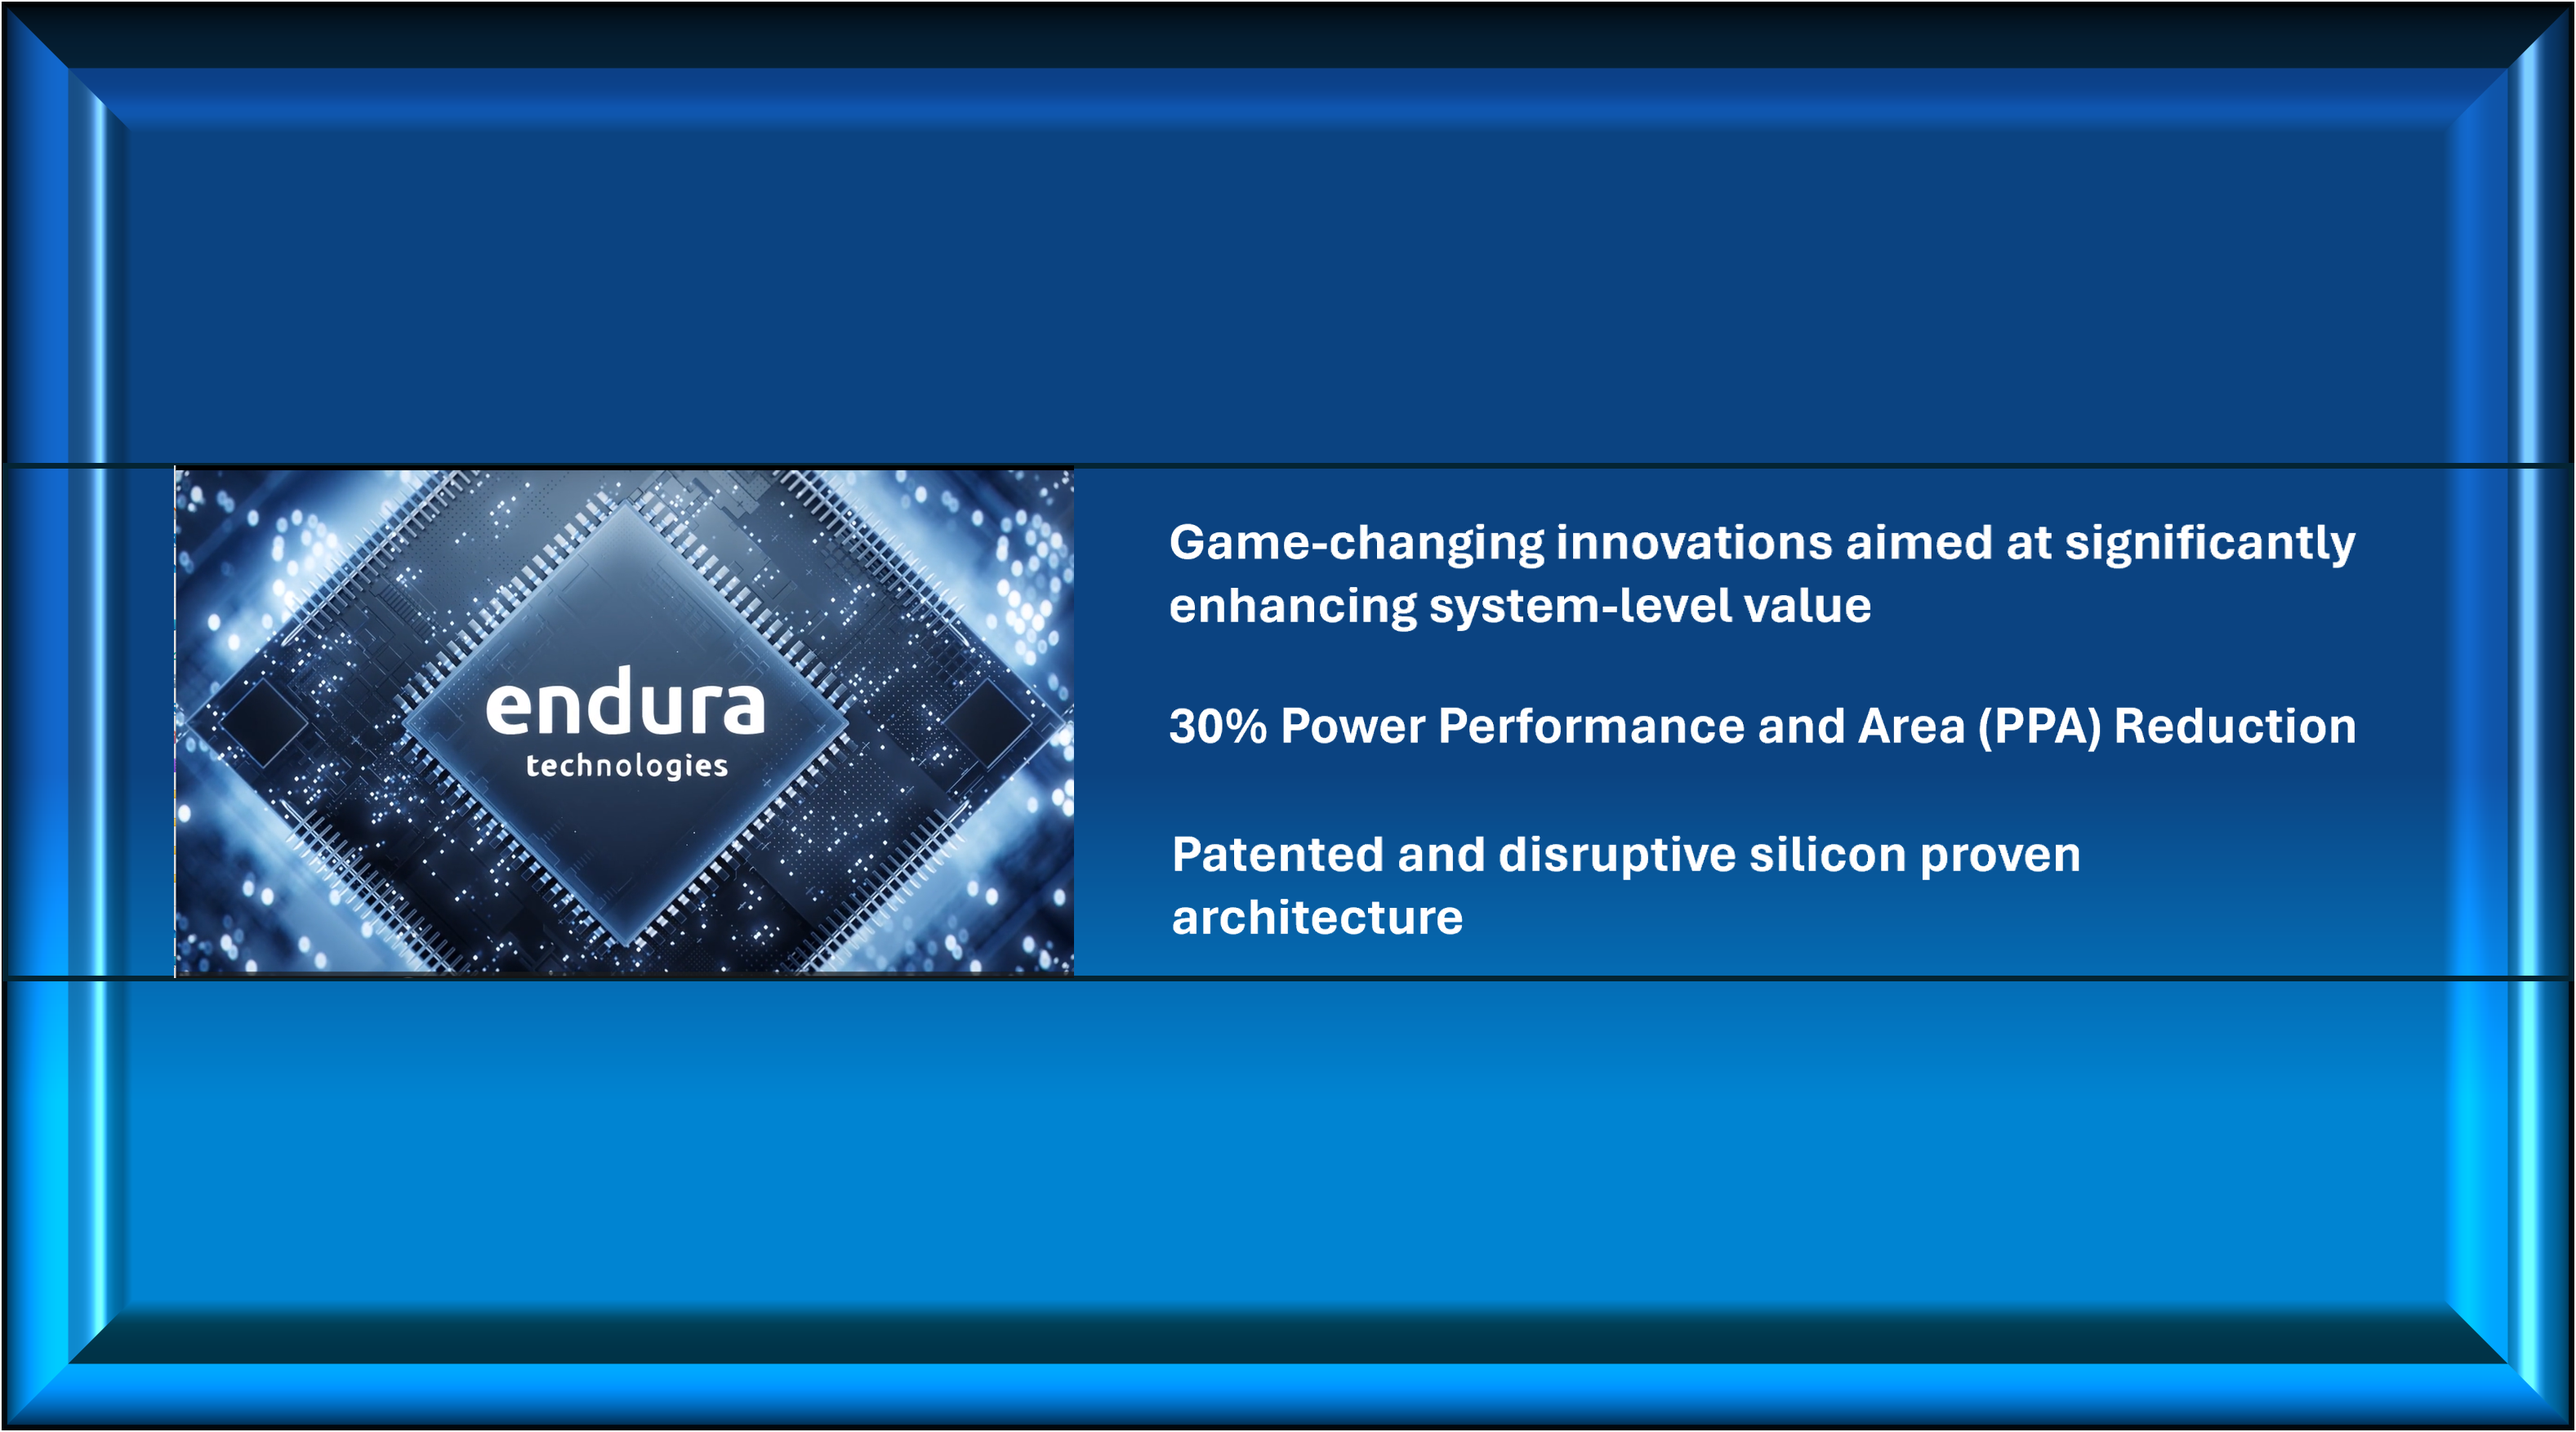
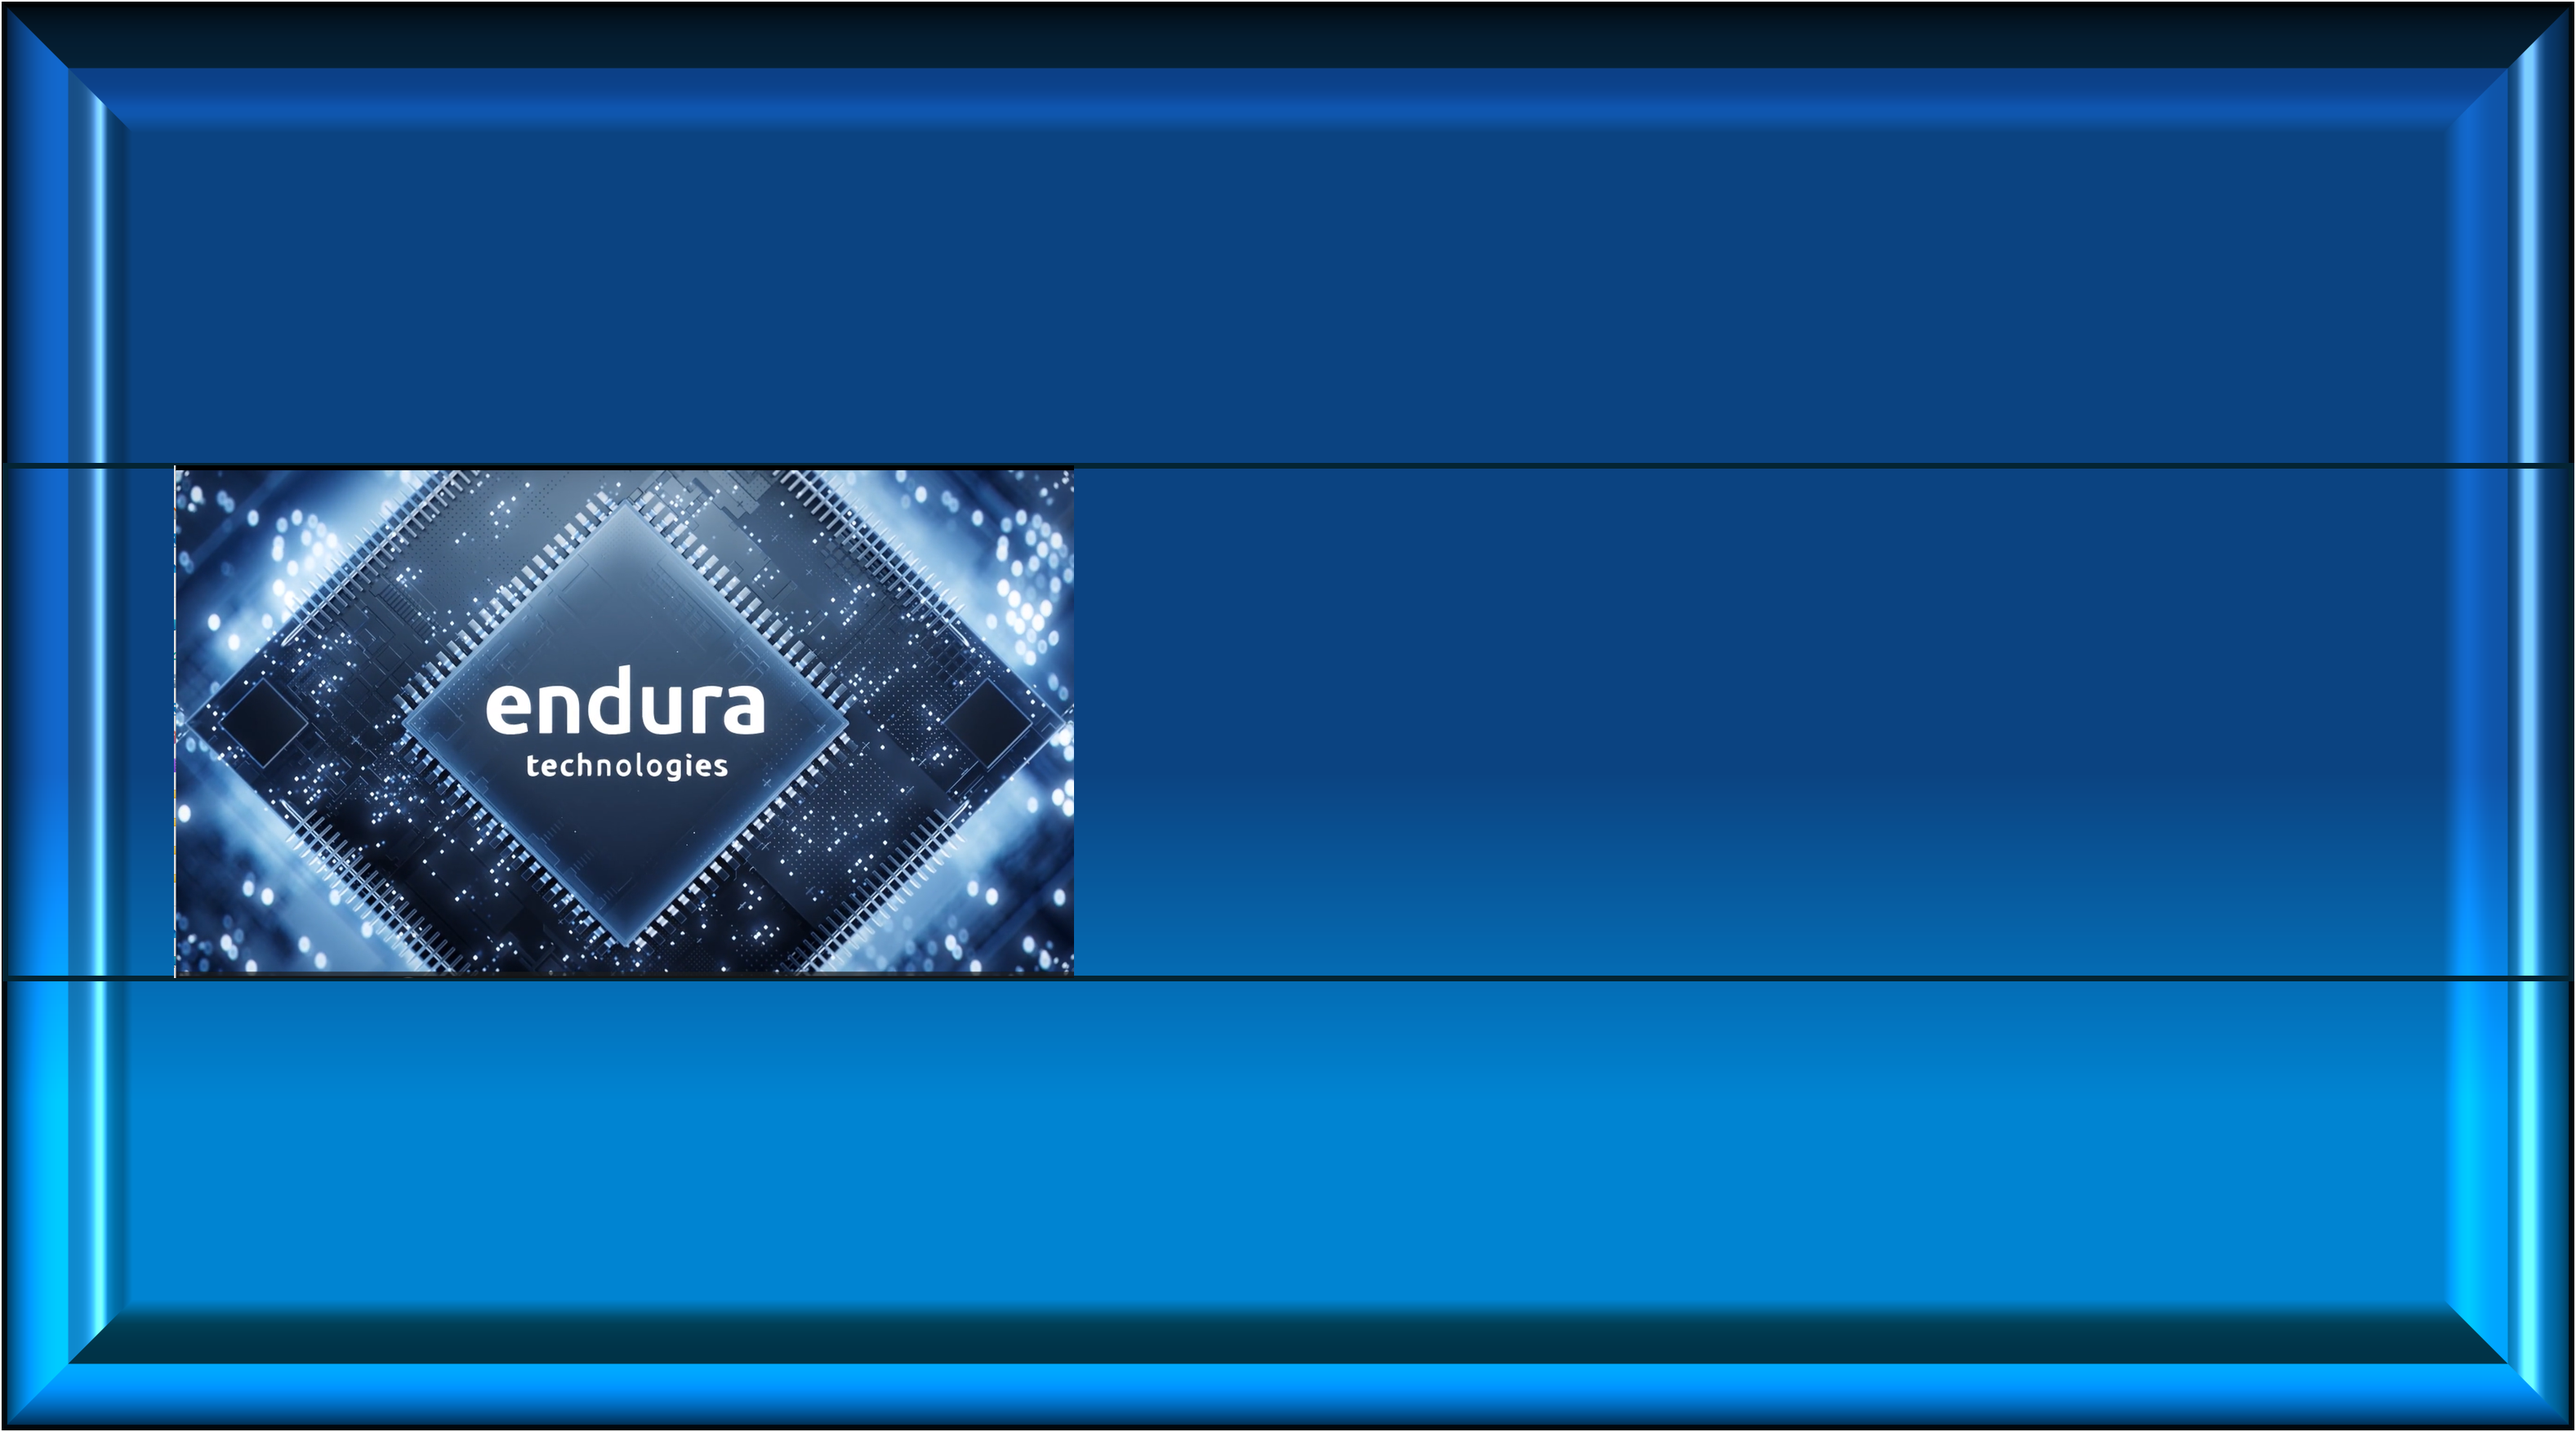
Modified front-page

Changed region(s): [[0.435, 0.3694, 0.9321, 0.4618], [0.435, 0.5849, 0.8079, 0.6773], [0.435, 0.4926, 0.9321, 0.5234]]

diff --git a/index.html b/index.html
@@ -2,6 +2,7 @@
 <html>
 <head>
     <!-- The content of header.html will be included here -->
+    <meta charset="UTF-8">
     <div id="header"></div>
     <script>
         fetch('header.html')
@@ -25,35 +26,53 @@
 <div class="slider-container">
     <div class="slider">
         <div class="slide" style="background-image: url('images/endura-diff1.png');">
-        </div>
-        <div class="slide" style="background-image: url('images/endura-diff2.png');">
+            <div class="slide-content">
+                <p>Game-changing innovations aimed at significantly enhancing system-level value</p>
+                <p>30% Power Performance and Area (PPA) Reduction</p>
+                <p>Patented and disruptive silicon proven architecture</p>
+            </div>
         </div>
         <div class="slide" style="background-image: url('images/endura-diff3.png');">
+            <div class="slide-content" style="margin-right: 30%; width: 60%;">
+                <p>Innovative Power Management and Delivery</p>
+                <ul>
+                    <li>Integrated Passives</li>
+                    <li>Smart Programmable, Flexible</li>
+                    <li>Scalable from SoC's to 2000A+ systems</li>
+                </ul>
+            </div>
+        </div>
+        <div class="slide" style="background-image: url('images/endura-diff2.png');">
+            <div class="slide-content" style="margin-right: 35%; width: 60%;">
+                <p><span class="highlight">eVR100</span> - The Evolution of Power</p>
+                <ul class="two-column-list">
+                    <li>Efficiency and Stability</li>
+                    <li>Digital Control</li>
+                    <li>High Speed Switching (150MHz)</li>
+                    <li>3D Integrated Passives</li>
+                    <li>High Current Densities</li>
+                    <li>System Scalable to >2000A</li>
+                </ul>
+                <p><span class="highlight">Coming 2024</span></p>
+            </div>
         </div>
     </div>
-</div>
-
-
-<div class="homecolumns1">
-    <div class="featvid1">
-        <div class="sixteen1">
-            <video class="responsive-vid1" preload="metadata" src="/images/endura-intro2.mp4" width="1280" height="720" autoPlay muted loop playsInline type="video/mp4"></video>
-        </div>
-    </div>
-    <div class="feattext1">
-        <h2 class="sub-title1"></h2>
-        <h2 class="sub-title1"></h2>
-    </div>
-</div>
-    
-    
-    <div class="hometext show-on-scroll">
-    <div class="subtext">
-    SoC power delivery is undergoing a radical transformation. New and massive architectures, often fueled by AI create insatiable demand for more computing and storage performance. Efficiently powering these systems at scale requires a new approach. One that takes a holistic view of power requirements for the chips and chiplets that implement the complete system. And one that optimizes performance, scalability, and efficiency over the broad spectrum of switching frequencies, current loads, voltage ranges, and silicon manufacturing processes faced by system designers.
     <br><br>
-    Endura Technologies is leading the way by providing end-to-end SoC power delivery solutions that integrate its revolutionary, patented architectures, test silicon, design IP, design services, passives (e.g., inductors, capacitors), partnerships, and silicon manufacturing relationships. For challenging applications such as data center, automotive, and many others we are changing the game.
+</div>
+
+<div class="static-slide">
+    <div class="static-content">
+        <div class="subtext">
+            SoC power delivery is undergoing a radical transformation. New and massive architectures, often fueled by AI create insatiable demand for more computing and storage performance. Efficiently powering these systems at scale requires a new approach. One that takes a holistic view of power requirements for the chips and chiplets that implement the complete system. And one that optimizes performance, scalability, and efficiency over the broad spectrum of switching frequencies, current loads, voltage ranges, and silicon manufacturing processes faced by system designers.
+        </div>
+        <img src="images/applications.png" alt="Static Image" class="static-image">
+        <div class="subtext">
+            Endura Technologies is leading the way by providing end-to-end Chiplet / SoC power delivery solutions that integrate its revolutionary, patented architectures, test silicon, design IP, design services, passives (e.g., inductors, capacitors), partnerships, and silicon manufacturing relationships. For challenging applications such as data center, cloud, AI and automotive, along with many other applications. We are changing the game.
+        </div>
     </div>
-    </div>
+</div>
+
+    
 
     <!-- More content... -->
 

diff --git a/endura.css b/endura.css
@@ -1205,15 +1205,20 @@ transform: none;
   position: relative;
   display: flex;
   align-items: center;
-  justify-content: center;
+  width: 100%; /* Make the content span 90% of the slide's width */
+  justify-content: flex-end; /* Adjust this to control the horizontal position */
   color: #fff;
-  text-align: center;
+  text-align: left;
 }
 
 .slide-content {
-  background-color: rgba(0, 0, 0, 0.5);
   padding: 20px;
   border-radius: 10px;
+  width: 50%; /* Adjust the width as needed to fit within the red box */
+  margin-right: 5%; /* Adjust margin to control the spacing from the right edge */
+  display: flex;
+  flex-direction: column;
+  justify-content: center;
 }
 
 .slide-content h2 {
@@ -1223,7 +1228,37 @@ transform: none;
 
 .slide-content p {
   margin: 10px 0;
-  font-size: 18px;
+  font-size: 24px; /* Adjust font size if needed */
+}
+
+.slide-content ul {
+  list-style-type: disc; /* Use disc bullets */
+  margin: 10px 0 0 20px; /* Adjust margins as needed */
+  padding: 0;
+}
+
+.slide-content ul li {
+  font-size: 24px; /* Adjust font size if needed */
+  line-height: 1.5; /* Adjust line height for better readability */
+  margin: 5px 0; /* Adjust margin between list items */
+}
+
+.two-column-list {
+  display: flex;
+  flex-wrap: wrap;
+  margin: 10px 0 0 0;
+  padding: 0;
+  list-style-type: none; /* Remove default list style */
+  grid-template-columns: repeat(2, 1fr);
+}
+
+.two-column-list li {
+  width: 50%; /* Each list item takes up 50% of the width */
+  padding-left: 10px; /* Add left padding to create space for custom bullet */
+  position: relative; /* For positioning the custom bullet */
+  font-size: 24px; /* Adjust font size if needed */
+  line-height: 1; /* Adjust line height for better readability */
+  margin: 0px 0; /* Adjust margin between list items */
 }
 
 @keyframes slideAnimation {
@@ -1232,4 +1267,55 @@ transform: none;
   40%, 55% { transform: translateX(-66.666666666%); }
   60%, 75% { transform: translateX(-33.33333333333%); }
   80%, 100% { transform: translateX(0); }
+}
+
+.highlight {
+  color: #FFD700; /* Change to the color you want for highlighting */
+  font-weight: bold; /* Optional: make it bold */
+}
+
+/* Static image styles */
+.static-slide {
+  flex: 1;
+  background: none; /* Remove background image */
+  display: flex;
+  flex-direction: column;
+  align-items: center;
+  justify-content: center;
+  margin-top: 40px; /* Add margin to create space between slides */
+  margin: 10px;
+}
+
+.static-content {
+  text-align: center;
+  color: #fff;
+}
+
+.static-content h2, .static-content p {
+  margin: 10px 0;
+  font-size: 13px;
+}
+
+.static-image {
+  max-width: 100%;
+  height: auto;
+}
+
+.static-slide .static-content {
+  text-align: center;
+  color: #000000;
+  padding: 20px;
+}
+
+.static-slide .subtext {
+  font-size: 13pt;
+  line-height: 23pt;
+  color: #000000;
+  font-family: 'arial', sans-serif;
+  text-align: left;
+  margin: 10px 0;
+}
+
+.static-slide .highlight {
+  color: yellow;
 }
